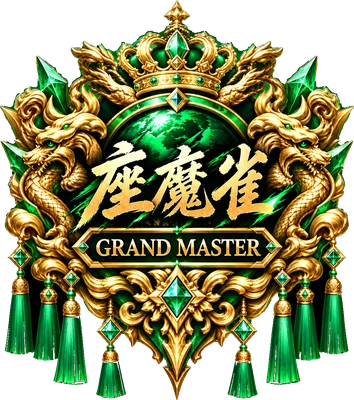
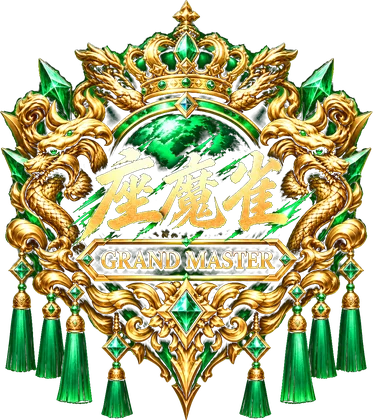
Add files via upload

diff --git a/zamajan-online/public/online.html b/zamajan-online/public/online.html
@@ -658,7 +658,7 @@ main{max-width:1120px;margin:auto;padding:22px 16px 65px}.section-title{font-siz
 .zj-rank-emblem[data-rank="MASTER"]{background:linear-gradient(140deg,#f1aaff,#7d24b5)}
 .zj-rank-emblem[data-rank="HIGH MASTER"]{background:linear-gradient(140deg,#ffdb6f,#a32b34)}
 .zj-rank-emblem[data-rank="GRAND MASTER"]{background:linear-gradient(140deg,#ffb8a4,#b62018)}
-.zj-rank-emblem[data-rank="ULTIMATE MASTER"]{background:linear-gradient(140deg,#fff,#8e8dff,#e7a85c)}
+.zj-rank-emblem[data-rank="ULTIMATE GRAND MASTER"]{background:linear-gradient(140deg,#fff,#8e8dff,#e7a85c)}
 /* 実際の座魔雀紋章画像を表示 */
 .zj-my-rank{gap:5px;max-width:100%;padding:2px 4px}
 .zj-rank-emblem{width:38px;height:36px;clip-path:none!important;background:transparent!important;filter:none!important;border:0;color:transparent;font-size:0;overflow:hidden;display:inline-flex;align-items:center;justify-content:center}
@@ -1010,8 +1010,8 @@ function zjDockTargetIcon(){
 
 // /api/ranks はサーバー保存済みの累積LP。自分以外のスコアボードには表示しない。
 let zjMineRankName='',zjMineRankRecord=null,zjMineRankLast=0,zjMineRankLoading=false;
-const zjMineRankThresholds=[['BRONZE',0],['SILVER',500],['GOLD',1000],['PLATINUM',2000],['DIAMOND',3500],['MASTER',5500],['HIGH MASTER',8000],['GRAND MASTER',11000],['ULTIMATE MASTER',15000]];
-const zjRankIconNames={'BRONZE':'bronze','SILVER':'silver','GOLD':'gold','PLATINUM':'platinum','DIAMOND':'diamond','MASTER':'master','HIGH MASTER':'high-master','GRAND MASTER':'grand-master','ULTIMATE MASTER':'ultimate-master'};
+const zjMineRankThresholds=[['BRONZE',0],['SILVER',500],['GOLD',1000],['PLATINUM',2000],['DIAMOND',3500],['MASTER',5500],['HIGH MASTER',8000],['GRAND MASTER',11000],['ULTIMATE GRAND MASTER',15000],['LEGEND',50000]];
+const zjRankIconNames={'BRONZE':'bronze','SILVER':'silver','GOLD':'gold','PLATINUM':'platinum','DIAMOND':'diamond','MASTER':'master','HIGH MASTER':'high-master','GRAND MASTER':'grand-master','ULTIMATE GRAND MASTER':'ultimate-grand-master','LEGEND':'legend'};
 function zjSetEmblemImage(el,rank){
  const file=zjRankIconNames[rank]||'bronze';
  if(el.dataset.iconFile===file)return;
@@ -1477,13 +1477,13 @@ $('zjServerRefresh').onclick=async()=>{await zjFetchSharedConfig(true);$('zjServ
 </script><style>.zj-rank-levels{display:grid;grid-template-columns:repeat(auto-fit,minmax(160px,1fr));gap:8px}.zj-rank-level,.zj-rank-player{background:#171b1d;border:1px solid #a98a55;border-radius:10px;padding:12px;display:flex;justify-content:space-between;gap:8px;flex-wrap:wrap}.zj-rank-level{flex-direction:column}.zj-rank-level strong{color:#ffe1a0}.zj-rank-players{display:grid;gap:6px}.zj-rank-player span{color:#ecc177}.zj-rank-player strong{color:#f8dc9d}</style><script>
 (function(){
  const mask=document.getElementById('zjRankMask'),body=document.getElementById('zjRankBody');
- const levels=['BRONZE','SILVER','GOLD','PLATINUM','DIAMOND','MASTER','HIGH MASTER','GRAND MASTER','ULTIMATE MASTER'];
+ const levels=['BRONZE','SILVER','GOLD','PLATINUM','DIAMOND','MASTER','HIGH MASTER','GRAND MASTER','ULTIMATE GRAND MASTER','LEGEND'];
  const esc=(s)=>String(s).replace(/[&<>"']/g,c=>({'&':'&amp;','<':'&lt;','>':'&gt;','"':'&quot;',"'":'&#39;'}[c]));
  async function open(){mask.classList.remove('hidden');body.textContent='ランク情報を取得しています…';try{
  const response=await fetch('/api/ranks',{cache:'no-store'});if(!response.ok)throw Error('HTTP '+response.status);const data=await response.json();
- body.innerHTML='<h3>ランク基準</h3><div class="zj-rank-levels">'+data.levels.map((x,i)=>'<div class="zj-rank-level"><img alt="" style="height:70px;width:94px;object-fit:contain;align-self:center" src="/assets/rank-icons/'+(zjRankIconNames[x.name]||'bronze')+'.webp"><strong>'+esc(x.name)+'</strong><span>'+Number(x.minLp).toLocaleString()+' LP〜</span></div>').join('')+'</div><p>ツモ +50 LP ／ ロン +30 LP ／ 敗北 −10 LP（下限0）。あがり点5,000点ごとに +10 LP。3連勝から勝利LPが2倍、4連勝4倍、5連勝8倍…（安全上最大1024倍）。流局は変動なし。</p><h3>累積LPランキング</h3><div class="zj-rank-players">'+(data.players.length?data.players.map((x,i)=>'<div class="zj-rank-player"><img alt="" style="width:52px;height:49px;object-fit:contain" src="/assets/rank-icons/'+(zjRankIconNames[x.rank]||'bronze')+'.webp"><b>'+(i+1)+'. '+esc(x.name)+'</b><span>'+esc(x.rank)+'</span><strong>'+Number(x.lp).toLocaleString()+' LP</strong><small>'+Number(x.streak)+'連勝</small></div>').join(''):'<p>まだ対戦結果が記録されていません。</p>')+'</div><p style="opacity:.75;font-size:12px">※現在はプレイヤー名で累積管理します。同名の人は同じ記録になるため、将来的にはログインID管理を推奨します。</p>';
+ body.innerHTML='<h3>ランク基準</h3><div class="zj-rank-levels">'+data.levels.map((x,i)=>'<div class="zj-rank-level"><img alt="" style="height:70px;width:94px;object-fit:contain;align-self:center" src="/assets/rank-icons/'+(zjRankIconNames[x.name]||'bronze')+'.webp"><strong>'+esc(x.name)+'</strong><span>'+Number(x.minLp).toLocaleString()+' LP〜</span></div>').join('')+'</div><p>ツモ +50 LP ／ ロン +30 LP ／ 敗北 −10 LP（下限0）。あがり点5,000点ごとに +10 LP。3連勝から勝利LPが2倍、4連勝4倍、5連勝8倍…（安全上最大1024倍）。流局は変動なし。</p><h3>累積LPランキング</h3><div class="zj-rank-players">'+(data.players.filter(x=>Number(x.lp)>0).length?data.players.filter(x=>Number(x.lp)>0).map((x,i)=>'<div class="zj-rank-player"><img alt="" style="width:52px;height:49px;object-fit:contain" src="/assets/rank-icons/'+(zjRankIconNames[x.rank]||'bronze')+'.webp"><b>'+(i+1)+'. '+esc(x.name)+'</b><span>'+esc(x.rank)+'</span><strong>'+Number(x.lp).toLocaleString()+' LP</strong><small>'+Number(x.streak)+'連勝</small></div>').join(''):'<p>まだ対戦結果が記録されていません。</p>')+'</div><p style="opacity:.75;font-size:12px">※現在はプレイヤー名で累積管理します。同名の人は同じ記録になるため、将来的にはログインID管理を推奨します。</p>';
  }catch(err){
-  const thresholds=[0,500,1000,2000,3500,5500,8000,11000,15000];
+  const thresholds=[0,500,1000,2000,3500,5500,8000,11000,15000,50000];
   body.innerHTML='<p style="color:#ffcb89">累積LPは現在取得できません（'+esc(err.message)+'）。サーバーの更新が未反映の可能性があります。</p><h3>ランク基準（閲覧可能）</h3><div class="zj-rank-levels">'+levels.map((name,i)=>'<div class="zj-rank-level"><img alt="" style="width:94px;height:70px;object-fit:contain" src="/assets/rank-icons/'+(zjRankIconNames[name]||'bronze')+'.webp"><strong>'+esc(name)+'</strong><span>'+thresholds[i].toLocaleString()+' LP〜</span></div>').join('')+'</div>';
  }}
  document.getElementById('zjRankOpen').addEventListener('click',open);

diff --git a/zamajan-online/server.js b/zamajan-online/server.js
@@ -614,10 +614,10 @@ r.turn=r.startSeat??0;r.drawn=false;r.result=null;r.phase='playing';
 if(!Number.isInteger(r.bgmTrack))r.bgmTrack=crypto.randomInt(5);
 for(let k=0;k<8;k++)for(let i=0;i<4;i++)r.hands[i].push(r.wall.pop());r.hands.forEach(h=>h.sort((a,b)=>a-b));r.roundOpening={hands:r.hands.map(v=>v.slice()),wall:r.wall.slice(),discards:r.discards.map(v=>v.slice()),scores:r.scores.slice(),turn:r.turn,bgmTrack:r.bgmTrack,tableTheme:r.tableTheme};log(r,r.round===1?`🎲 サイコロ ${r.firstDice}！部屋主から右回りで${r.firstDice}人目：${r.players[r.startSeat].name}がスタート！`:`第${r.round}局 はじめ！`);schedule(r);broadcast(r);return null}
 // Persistent player ranking (independent from git checkout and game-config).
-const ZJ_RANK_LEVELS=[['BRONZE',0],['SILVER',500],['GOLD',1000],['PLATINUM',2000],['DIAMOND',3500],['MASTER',5500],['HIGH MASTER',8000],['GRAND MASTER',11000],['ULTIMATE MASTER',15000]];
+const ZJ_RANK_LEVELS=[['BRONZE',0],['SILVER',500],['GOLD',1000],['PLATINUM',2000],['DIAMOND',3500],['MASTER',5500],['HIGH MASTER',8000],['GRAND MASTER',11000],['ULTIMATE GRAND MASTER',15000],['LEGEND',50000]];
 const ZJ_LP_FILE=process.env.ZAMAJAN_LP_FILE||path.join(path.dirname(SERVER_CONFIG_FILE),'player-lp.json');
 let zjLpStore={schemaVersion:1,players:{}};
-try{const data=JSON.parse(fs.readFileSync(ZJ_LP_FILE,'utf8'));if(data&&data.schemaVersion===1&&data.players&&typeof data.players==='object')zjLpStore=data}catch(e){if(e.code!=='ENOENT')console.warn('LP saved data could not be loaded:',e.message)}
+try{const data=JSON.parse(fs.readFileSync(ZJ_LP_FILE,'utf8'));if(data&&data.schemaVersion===1&&data.players&&typeof data.players==='object'){zjLpStore=data;for(const rec of Object.values(zjLpStore.players)){if(rec&&typeof rec==='object')rec.lp=Math.max(0,Number(rec.lp)||0)}}}catch(e){if(e.code!=='ENOENT')console.warn('LP saved data could not be loaded:',e.message)}
 function zjRank(lp){let rank=ZJ_RANK_LEVELS[0][0];for(const [name,min] of ZJ_RANK_LEVELS)if(lp>=min)rank=name;return rank}
 function zjSaveLp(){const dir=path.dirname(ZJ_LP_FILE);fs.mkdirSync(dir,{recursive:true,mode:0o700});const tmp=ZJ_LP_FILE+'.tmp-'+process.pid;try{fs.writeFileSync(tmp,JSON.stringify(zjLpStore,null,2),{mode:0o600});fs.renameSync(tmp,ZJ_LP_FILE)}finally{try{fs.unlinkSync(tmp)}catch{}}}
 // Names are temporary ranking IDs until account-based player authentication is introduced.
@@ -641,7 +641,7 @@ function zjAwardLp(r,result){
  for(const [key,value] of updates)zjLpStore.players[key]=value;
  try{zjSaveLp()}catch(e){console.error('LP persistence failed:',e.message)}
 }
-app.get('/api/ranks',(req,res)=>{res.set('Cache-Control','no-store');const players=Object.entries(zjLpStore.players).map(([name,p])=>({name,lp:p.lp||0,rank:zjRank(p.lp||0),streak:p.streak||0,wins:p.wins||0,losses:p.losses||0})).sort((a,b)=>b.lp-a.lp||a.name.localeCompare(b.name,'ja')).slice(0,200);res.json({levels:ZJ_RANK_LEVELS.map(([name,lp])=>({name,minLp:lp})),players})});
+app.get('/api/ranks',(req,res)=>{res.set('Cache-Control','no-store');const players=Object.entries(zjLpStore.players).map(([name,p])=>({name,lp:Math.max(0,Number(p.lp)||0),rank:zjRank(Math.max(0,Number(p.lp)||0)),streak:p.streak||0,wins:p.wins||0,losses:p.losses||0})).sort((a,b)=>b.lp-a.lp||a.name.localeCompare(b.name,'ja')).slice(0,200);res.json({levels:ZJ_RANK_LEVELS.map(([name,lp])=>({name,minLp:lp})),players})});
 function finish(r,result){if(r.phase==='result')return;zjAwardLp(r,result);clearTimeout(r.timer);r.deadline=0;r.phase='result';r.result=result;log(r,result.method==='流局'?'流局':result.method==='ロン'?`${result.winnerName}が${result.loserName||r.players[result.loser]?.name||'相手'}からロン！`:`${result.winnerName}が${result.method}！`);broadcast(r)}
 function zjScoreWin(r,p,hand,y,method,loser=null,winningTile=null){
  const b=zjWinBonuses(r,p,hand),rolePoints=Math.round(y.points*b.multiplier),bonus=ownBonus(r,p,hand)?1000:0;
